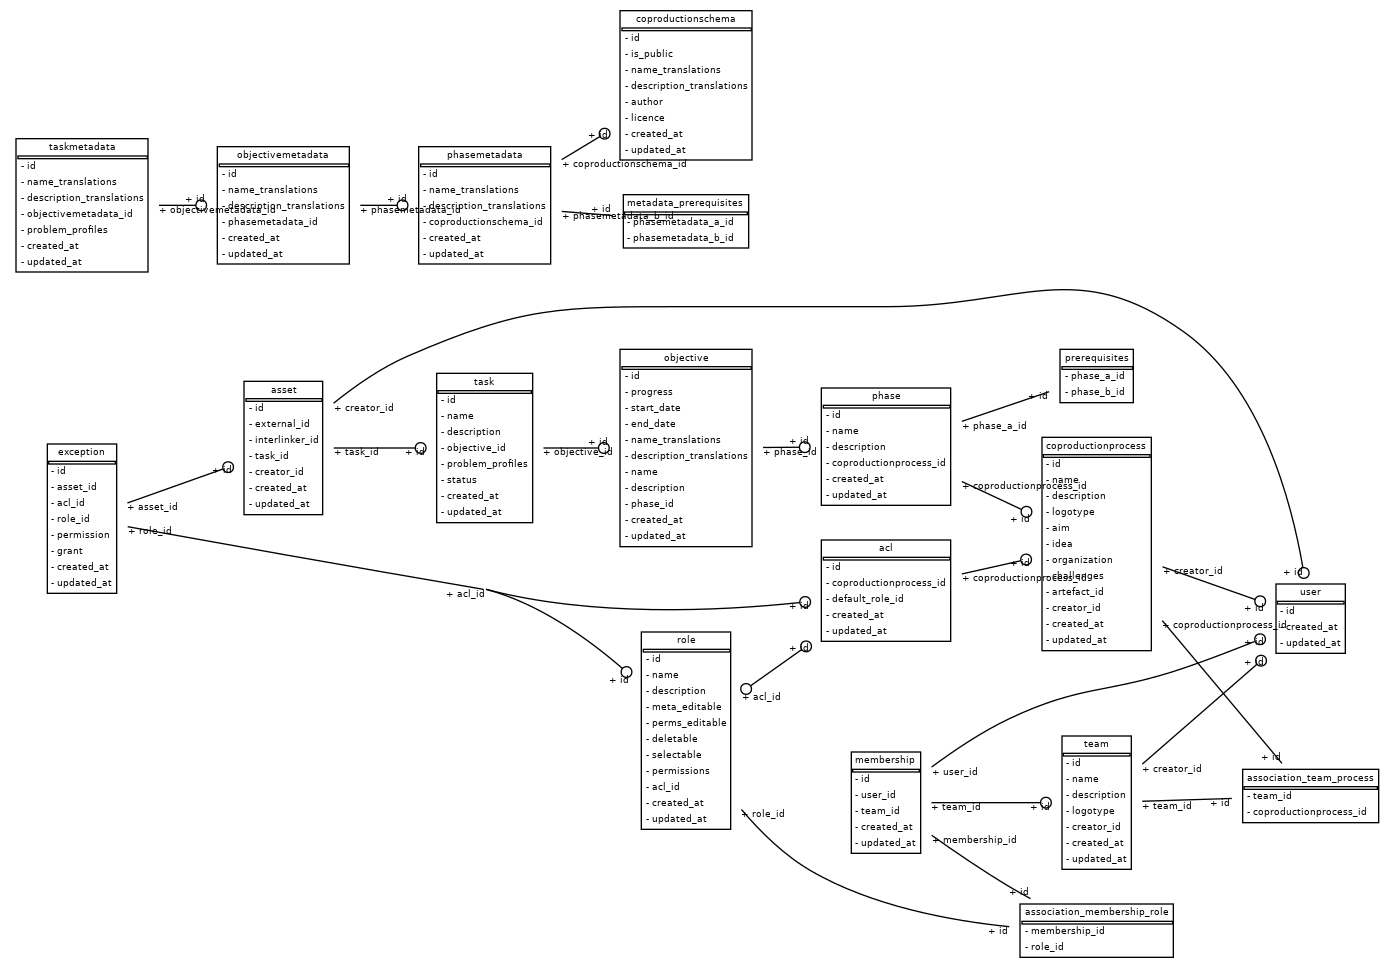
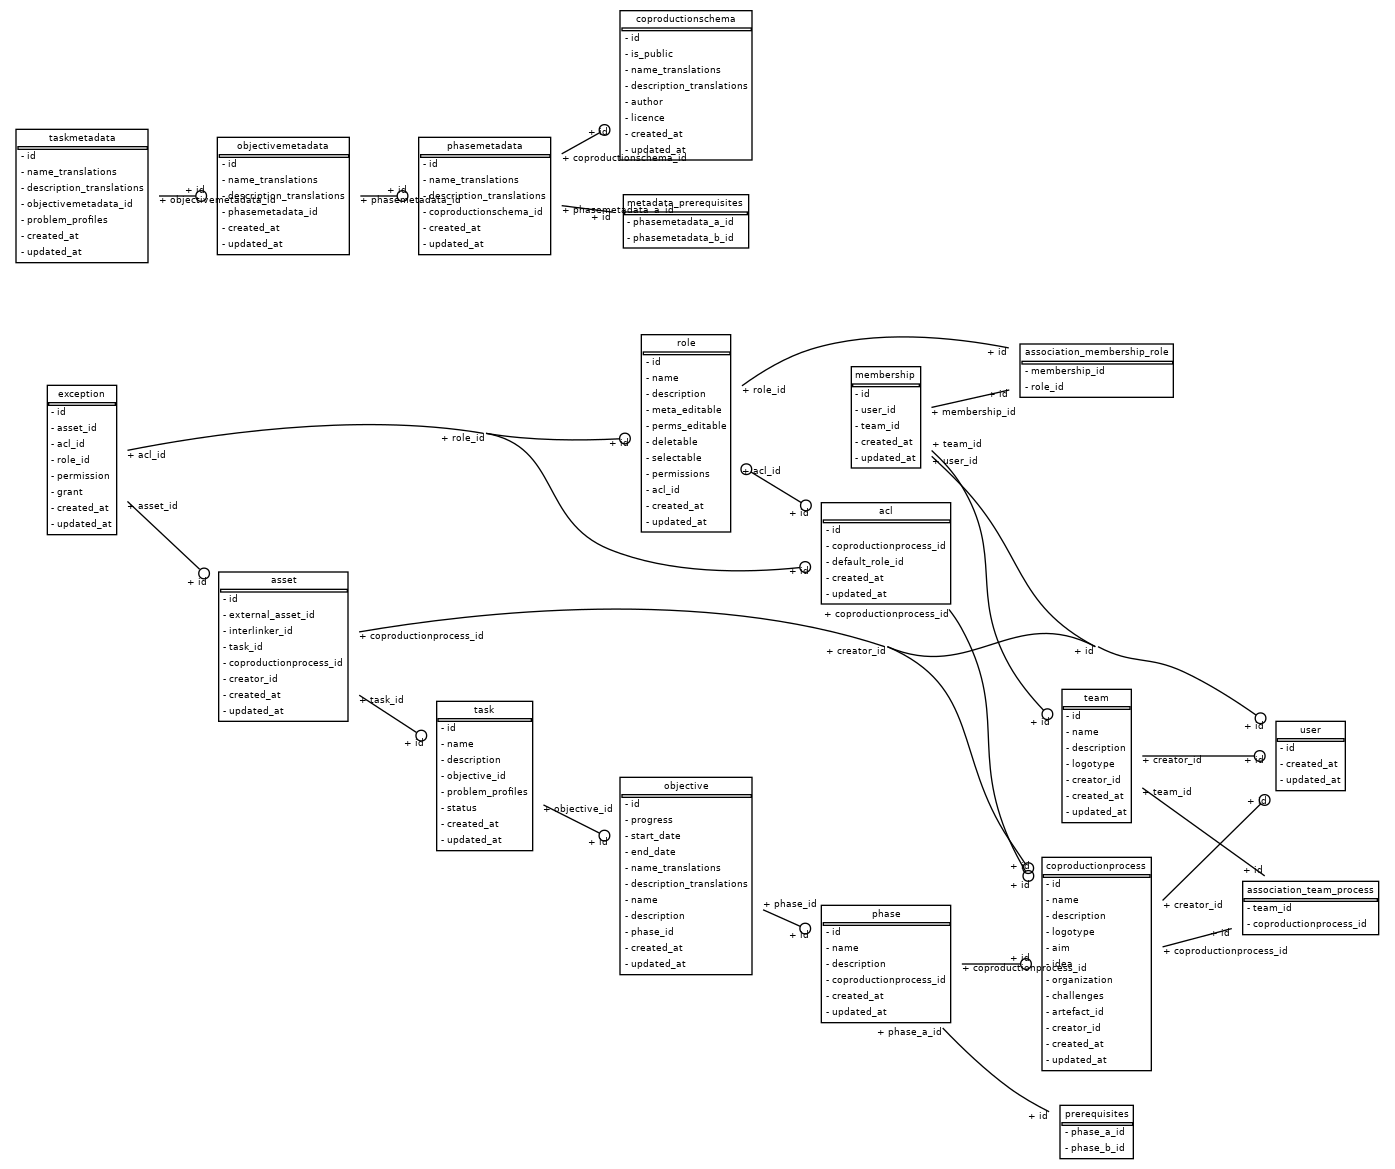
Asset clone and external endpoint

diff --git a/coproduction/app/api/api_v1/assets.py b/coproduction/app/api/api_v1/assets.py
@@ -45,20 +45,58 @@ def create_asset(
         raise HTTPException(status_code=403, detail="Not enough permissions")
 
     # first check if task exists
-    if not crud.task.get(db=db, id=asset_in.task_id):
+    task = crud.task.get(db=db, id=asset_in.task_id)
+    if not task:
         raise HTTPException(status_code=404, detail="Task not found")
 
     # check that interlinker in catalogue
     try:
-        response = requests.get(f"http://{settings.CATALOGUE_SERVICE}/api/v1/interlinkers/{asset_in.interlinker_id}")
+        response = requests.get(f"http://{settings.CATALOGUE_SERVICE}/api/v1/interlinkers/{asset_in.interlinker_id}", headers={
+            "X-API-Key": "secret"
+        })
         assert response.status_code == 200
         
     except:
         raise HTTPException(status_code=400, detail="Interlinker not active")
 
-    asset = crud.asset.create(db=db, asset=asset_in, external_id=asset_in.external_id, creator=current_user)
+    asset = crud.asset.create(db=db, asset=asset_in, coproductionprocess_id=task.objective.phase.coproductionprocess_id, creator=current_user)
     return asset
 
+@router.post("{id}/clone", response_model=schemas.AssetOutFull)
+def clone_asset(
+    *,
+    id: str,
+    db: Session = Depends(deps.get_db),
+    current_user: dict = Depends(deps.get_current_active_user),
+    token: str = Depends(deps.get_current_active_token),
+) -> Any:
+    """
+    Clone asset.
+    """
+    if not crud.asset.can_create(current_user):
+        raise HTTPException(status_code=403, detail="Not enough permissions")
+
+    asset = crud.asset.get(db=db, id=id)
+    if not asset:
+        raise HTTPException(status_code=404, detail="Asset not found")
+
+    # first check if task exists
+    task = crud.task.get(db=db, id=asset.task_id)
+    if not task:
+        raise HTTPException(status_code=404, detail="Task not found")
+    
+    external_info = requests.post(asset.internal_link + "/clone", headers={
+        "Authorization": "Bearer " + token
+    }).json()
+    print("EXTERNAL")
+    print(external_info)
+    external_id = external_info["id"] if "id" in external_info else external_info["_id"]
+    asset = crud.asset.create(db=db, asset=schemas.AssetCreate(
+        task_id=asset.task_id,
+        interlinker_id=asset.interlinker_id,
+        external_asset_id=external_id
+    ), coproductionprocess_id=task.objective.phase.coproductionprocess_id, creator=current_user)
+    return asset
 
 @router.put("/{id}", response_model=schemas.AssetOutFull)
 def update_asset(
@@ -96,6 +134,23 @@ def read_asset(
     if not crud.asset.can_read(current_user, asset):
         raise HTTPException(status_code=403, detail="Not enough permissions")
     return asset
+
+@router.get("/external/{id}")
+def read_external_asset(
+    *,
+    db: Session = Depends(deps.get_db),
+    id: uuid.UUID,
+    token: str = Depends(deps.get_current_active_token),
+) -> Any:
+    """
+    Get asset by ID.
+    """
+    asset = crud.asset.get(db=db, id=id)
+    if not asset:
+        raise HTTPException(status_code=404, detail="Asset not found")
+    return requests.get(asset.internal_link, headers={
+        "Authorization": "Bearer " + token
+    }).json()
 
 
 @router.delete("/{id}", response_model=schemas.AssetOutFull)

diff --git a/coproduction/app/assets/models.py b/coproduction/app/assets/models.py
@@ -14,7 +14,7 @@ from sqlalchemy import (
     Text,
 )
 from sqlalchemy.dialects.postgresql import UUID
-from sqlalchemy.orm import relationship
+from sqlalchemy import orm
 from sqlalchemy.sql.expression import null
 
 from app.config import settings
@@ -23,25 +23,49 @@ from app.general.db.base_class import Base as BaseModel
 
 class Asset(BaseModel):
     id = Column(UUID(as_uuid=True), primary_key=True, default=uuid.uuid4)
-    external_id = Column(String)
+    external_asset_id = Column(String)
     interlinker_id = Column(UUID(as_uuid=True))
 
     task_id = Column(
-        UUID(as_uuid=True), ForeignKey("task.id", ondelete='CASCADE')
+        UUID(as_uuid=True), ForeignKey("task.id", ondelete='SET NULL')
     )
-    task = relationship("Task", back_populates="assets")
+    task = orm.relationship("Task", back_populates="assets")
+
+     # also attach to the coproduction process to do not delete if task deleted
+    coproductionprocess_id = Column(
+        UUID(as_uuid=True), ForeignKey("coproductionprocess.id", ondelete='CASCADE')
+    )
+    coproductionprocess = orm.relationship("CoproductionProcess", back_populates="assets")
 
     # created by
     creator_id = Column(
         String, ForeignKey("user.id")
     )
-    creator = relationship("User", back_populates="created_assets")
+    creator = orm.relationship("User", back_populates="created_assets")
+    
+    def set_links(self):
+        response = requests.get(f"http://{settings.CATALOGUE_SERVICE}/api/v1/interlinkers/{self.interlinker_id}").json()
+
+        backend =response["backend"]
+        self.ext_link = f"{backend}/{self.external_asset_id}"
+        
+        backend =response["integration"]["service_name"]
+        api_path =response["integration"]["api_path"]
+        self.int_link = f"http://{backend}{api_path}/{self.external_asset_id}"
+
+    # on init
+    @orm.reconstructor
+    def init_on_load(self):
+        self.set_links()
 
     def __repr__(self):
         return "<Asset %r>" % self.id
     
     @property
     def link(self):
-        response = requests.get(f"http://{settings.CATALOGUE_SERVICE}/api/v1/interlinkers/{self.interlinker_id}").json()
-        backend = response["backend"]
-        return f"{backend}/{self.external_id}"
+        return self.ext_link
+    
+    # not exposed in out schema
+    @property
+    def internal_link(self):
+        return self.int_link

diff --git a/coproduction/app/general/deps.py b/coproduction/app/general/deps.py
@@ -30,19 +30,23 @@ def get_db() -> Generator:
 def get_current_token(
     request: Request
 ) -> dict:
-        state = request.state._state
-        return state["token"]
+        return get_token_in_cookie(request) or get_token_in_header(request)
+
+def get_current_active_token(
+    current_token: str = Depends(get_current_token)
+) -> dict:
+        if not current_token:
+            raise HTTPException(status_code=403, detail="Not authenticated")
+        return current_token
 
 def get_current_user(
     request: Request,
     db: Session = Depends(get_db),
+    current_token: str = Depends(get_current_token)
 ) -> Optional[models.User]:
     try:
-        token = get_token_in_cookie(request) or get_token_in_header(request)
-        if token:
-            token_data = decode_token(token)
-            return crud.user.get(db=db, id=token_data["sub"])
-        return None
+        token_data = decode_token(current_token)
+        return crud.user.get(db=db, id=token_data["sub"])
     except Exception as e:
         print(str(e))
         return None

diff --git a/coproduction/app/assets/crud.py b/coproduction/app/assets/crud.py
@@ -12,16 +12,18 @@ class CRUDAsset(CRUDBase[Asset, AssetCreate, AssetPatch]):
     ) -> List[Asset]:
         return db.query(Asset).filter(task_id=task_id).offset(skip).limit(limit).all()
 
-    def create(self, db: Session, asset: AssetCreate, external_id: str, creator: models.User) -> Asset:
+    def create(self, db: Session, asset: AssetCreate, coproductionprocess_id: uuid.UUID, creator: models.User) -> Asset:
         db_obj = Asset(
+            coproductionprocess_id=coproductionprocess_id,
             task_id=asset.task_id,
             interlinker_id=asset.interlinker_id,
-            external_id=external_id,
+            external_asset_id=asset.external_asset_id,
             creator=creator
         )
         db.add(db_obj)
         db.commit()
         db.refresh(db_obj)
+        db_obj.set_links()
         return db_obj
     
     def remove(self, db: Session, *, id: uuid.UUID) -> Asset:

diff --git a/coproduction/app/memberships/schemas.py b/coproduction/app/memberships/schemas.py
@@ -7,6 +7,7 @@ from datetime import datetime
 import requests
 from app.config import settings
 
+
 class MembershipBase(BaseModel):
     user_id: str
 
@@ -31,13 +32,15 @@ class Membership(MembershipBase):
 class MembershipOut(Membership):
     picture: Optional[str]
     email: Optional[str]
-    
+
     @root_validator(pre=True)
     def get_user_data_from_auth_microservice(cls, values):
         id = values["user_id"]
         try:
             newValues = {**values}
-            response = requests.get(f"http://{settings.AUTH_SERVICE}/auth/api/v1/users/{id}").json()
+            response = requests.get(f"http://{settings.AUTH_SERVICE}/auth/api/v1/users/{id}", headers={
+                "X-API-Key": "secret"
+            }).json()
             newValues["picture"] = response["picture"]
             newValues["email"] = response["email"]
             return newValues

diff --git a/coproduction/app/coproductionprocesses/models.py b/coproduction/app/coproductionprocesses/models.py
@@ -38,6 +38,8 @@ class CoproductionProcess(BaseModel):
 
     phases = relationship(
         "Phase", back_populates="coproductionprocess")
+    assets = relationship(
+        "Asset", back_populates="coproductionprocess")
     artefact_id = Column(UUID(as_uuid=True))
 
     # created by

diff --git a/coproduction/app/assets/schemas.py b/coproduction/app/assets/schemas.py
@@ -8,7 +8,7 @@ from pydantic import BaseModel
 class AssetBase(BaseModel):
     task_id: uuid.UUID
     interlinker_id: uuid.UUID
-    external_id: str
+    external_asset_id: str
     
 class AssetCreate(AssetBase):
     pass
